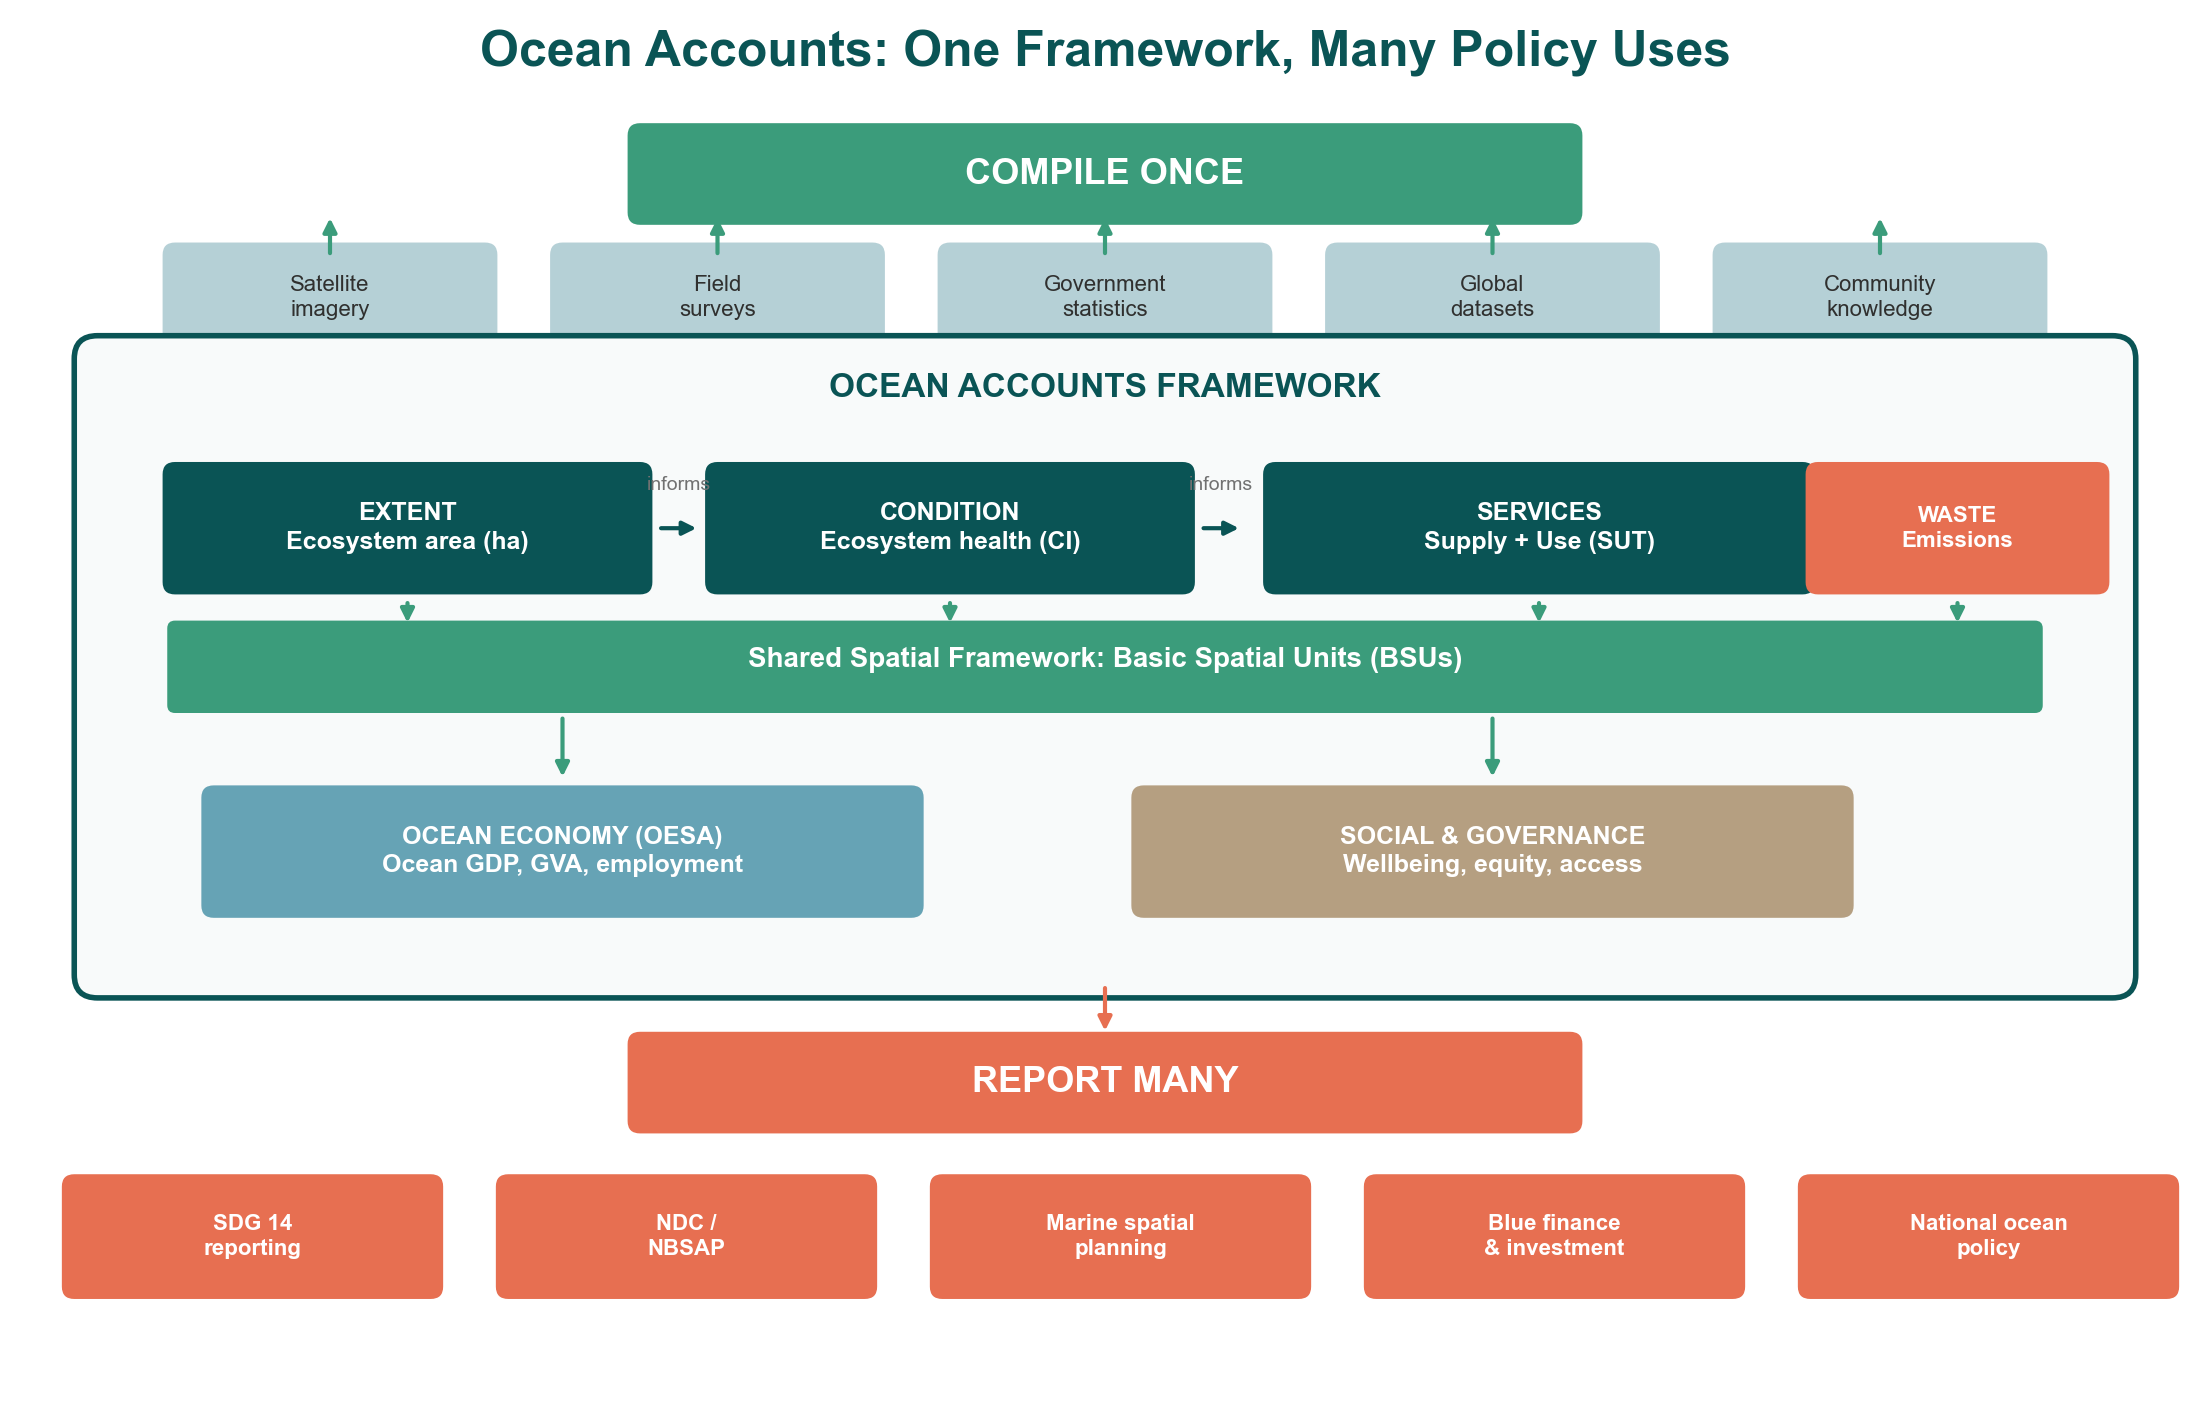
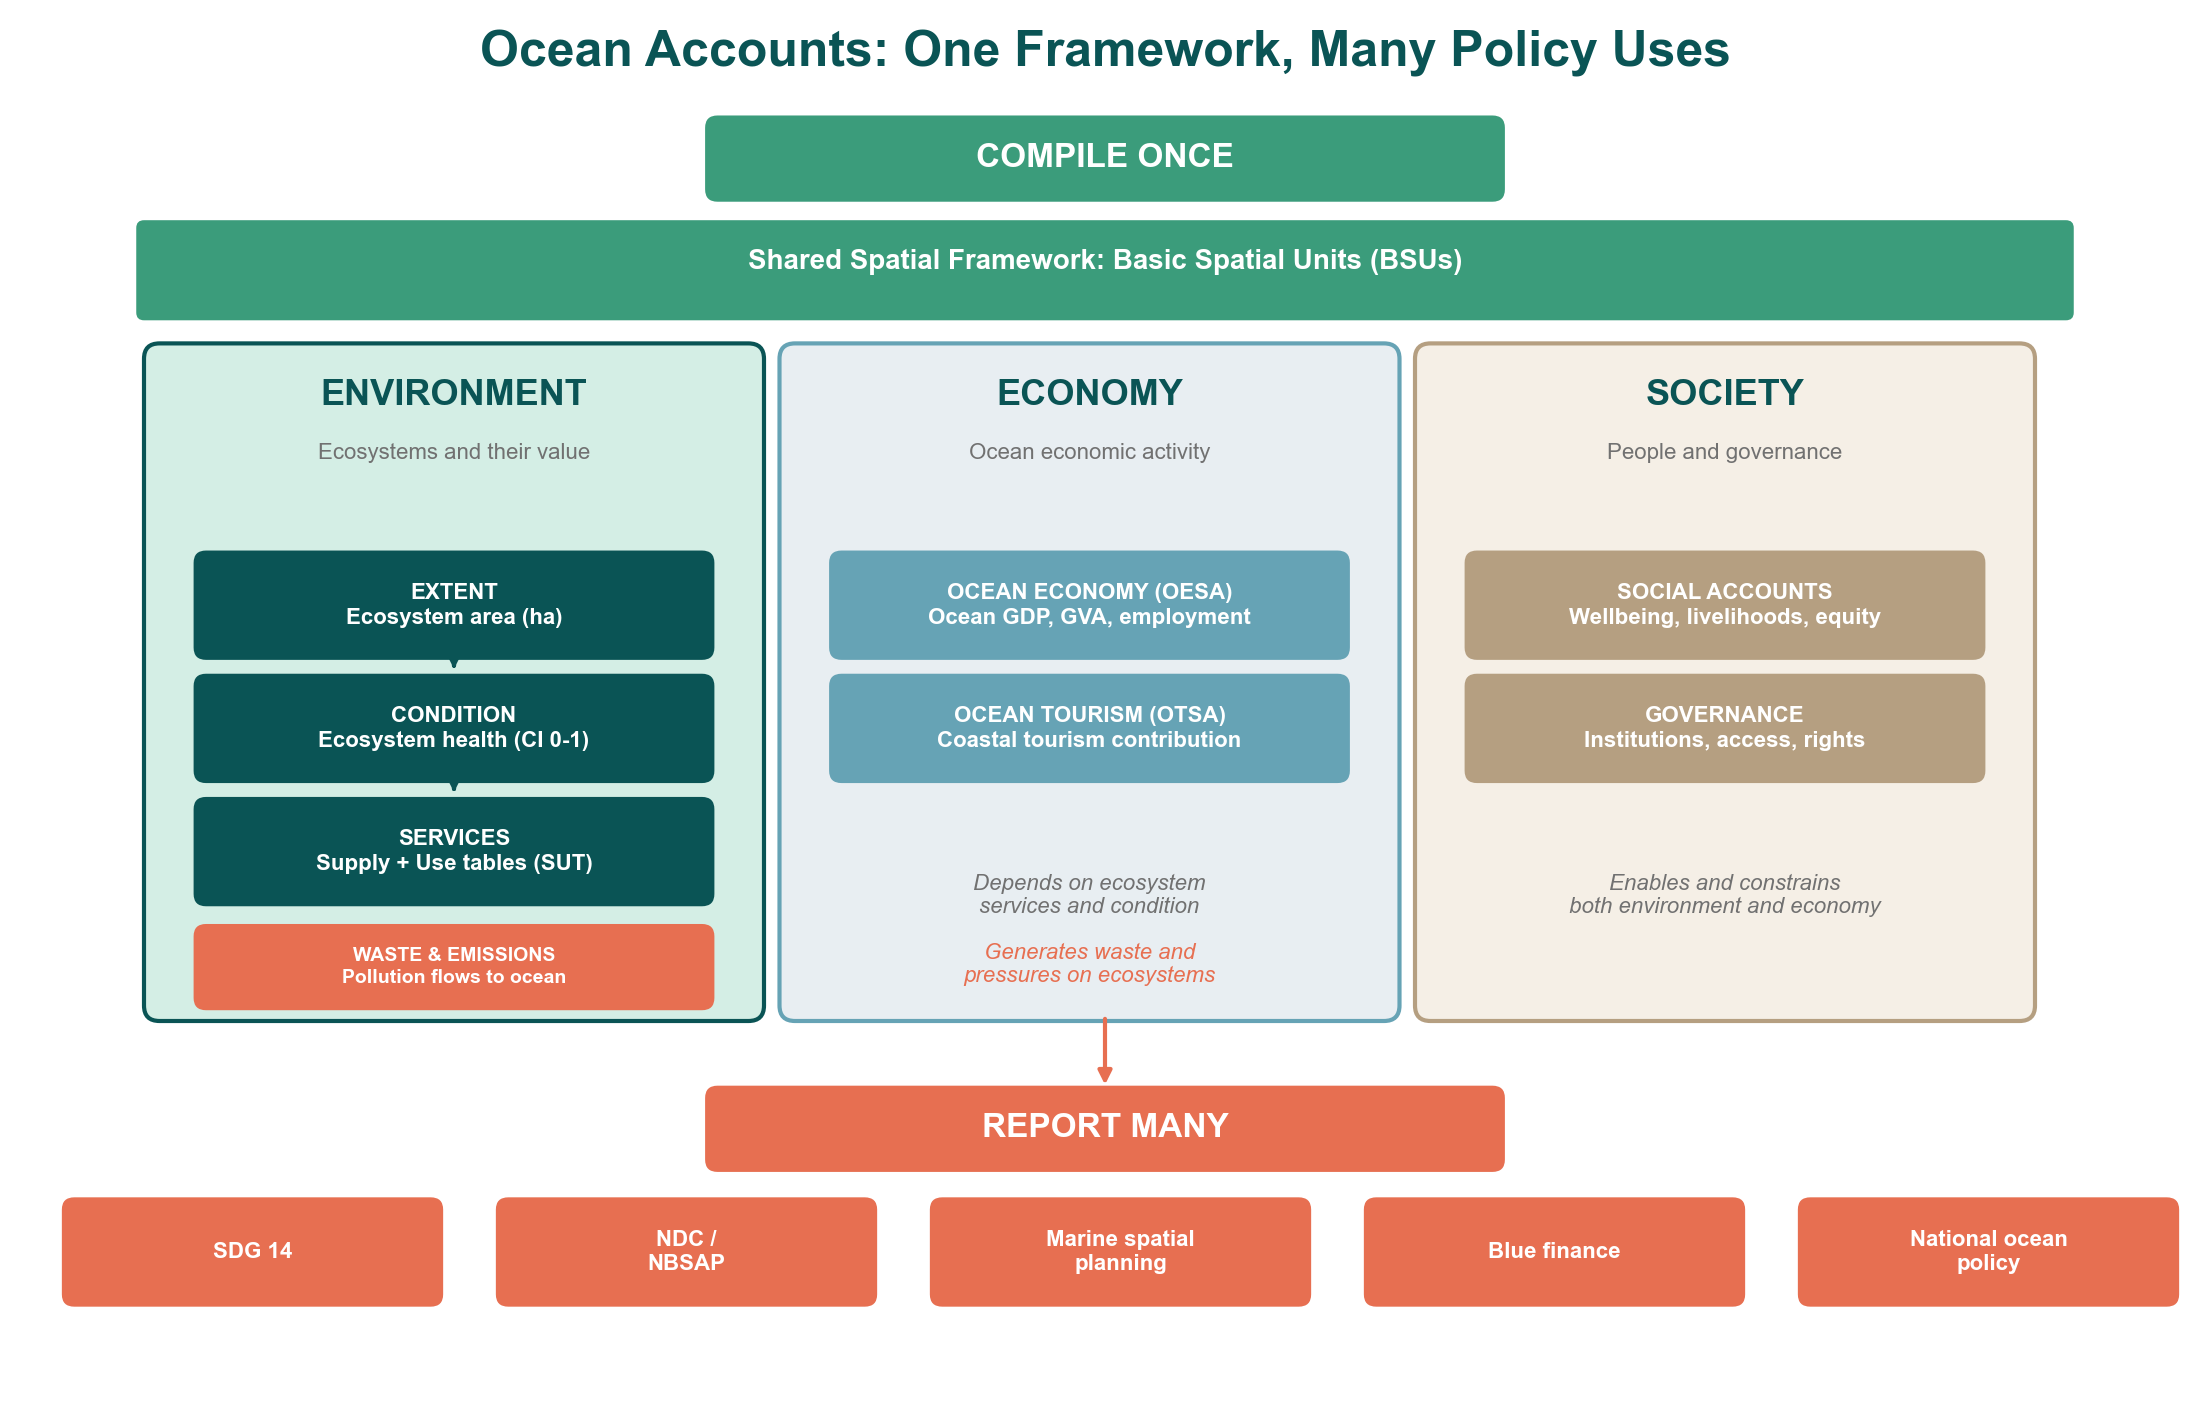
Redesign overview as three equal domains: Environment, Economy, Society
No more hierarchy. Three equal-sized columns side by side:

ENVIRONMENT: Extent → Condition → Services + Waste & Emissions
ECONOMY: OESA (Ocean GDP) + OTSA (Tourism)
SOCIETY: Social Accounts + Governance

All sit on shared BSU Spatial Framework.
Relationships described in text within each column (not crossing arrows).
"Compile Once" at top, "Report Many" at bottom with 5 policy outputs.

diff --git a/s-s-event-bogor/sessions/day-2/clinic/generate_clean_diagrams.py b/s-s-event-bogor/sessions/day-2/clinic/generate_clean_diagrams.py
@@ -66,67 +66,89 @@ def diagram_overview(outdir):
     ax.text(7, 8.7, "Ocean Accounts: One Framework, Many Policy Uses",
             fontsize=18, ha="center", color=TEAL, fontfamily="Arial", fontweight="bold")
 
-    # LEVEL 1: COMPILE ONCE + data sources
-    box(ax, 7, 8.0, 6, 0.5, "COMPILE ONCE", GREEN, fontsize=13)
+    # COMPILE ONCE banner
+    box(ax, 7, 8.1, 5, 0.4, "COMPILE ONCE", GREEN, fontsize=12)
 
-    sources = ["Satellite\nimagery", "Field\nsurveys", "Government\nstatistics",
-               "Global\ndatasets", "Community\nknowledge"]
-    for i, s in enumerate(sources):
-        x = 2.0 + i * 2.5
-        box(ax, x, 7.2, 2.0, 0.55, s, LIGHT_BLUE, textcolor=BODY, fontsize=8, bold=False)
-        arrow_down(ax, x, 7.45, 7.75, GREEN)
-
-    # LEVEL 2: THE FRAMEWORK (one big container)
-    # Outer container
-    container = FancyBboxPatch((0.5, 2.8), 13, 4.0,
-                               boxstyle="round,pad=0.15", facecolor="#F8FAFA",
-                               edgecolor=TEAL, linewidth=2)
-    ax.add_patch(container)
-    ax.text(7, 6.55, "OCEAN ACCOUNTS FRAMEWORK", fontsize=12, ha="center",
-            color=TEAL, fontfamily="Arial", fontweight="bold")
-
-    # BSU band in the middle of the container
-    bsu = FancyBboxPatch((1.0, 4.55), 12, 0.5,
-                         boxstyle="round,pad=0.05", facecolor=GREEN,
-                         edgecolor="none")
+    # BSU FOUNDATION (wide bar under compile once)
+    bsu = FancyBboxPatch((0.8, 7.1), 12.4, 0.55,
+                         boxstyle="round,pad=0.05", facecolor=GREEN, edgecolor="none")
     ax.add_patch(bsu)
-    ax.text(7, 4.8, "Shared Spatial Framework: Basic Spatial Units (BSUs)",
+    ax.text(7, 7.38, "Shared Spatial Framework: Basic Spatial Units (BSUs)",
             fontsize=10, ha="center", color=WHITE, fontfamily="Arial", fontweight="bold")
 
-    # Top row: SEEA-EA ecological accounts (above BSU)
-    box(ax, 2.5, 5.7, 3.0, 0.7, "EXTENT\nEcosystem area (ha)", TEAL, fontsize=9)
-    box(ax, 6.0, 5.7, 3.0, 0.7, "CONDITION\nEcosystem health (CI)", TEAL, fontsize=9)
-    box(ax, 9.8, 5.7, 3.4, 0.7, "SERVICES\nSupply + Use (SUT)", TEAL, fontsize=9)
-    box(ax, 12.5, 5.7, 1.8, 0.7, "WASTE\nEmissions", ORANGE, fontsize=8)
+    # THREE EQUAL DOMAIN COLUMNS
+    col_w = 3.8
+    col_h = 4.2
+    col_y = 2.6
+    gap = 0.3
 
-    # Arrows: extent → condition → services
-    arrow_right(ax, 4.1, 4.4, 5.7, TEAL)
-    arrow_right(ax, 7.6, 7.9, 5.7, TEAL)
-    ax.text(4.25, 5.95, "informs", fontsize=7, color=GRAY, ha="center", fontfamily="Arial")
-    ax.text(7.75, 5.95, "informs", fontsize=7, color=GRAY, ha="center", fontfamily="Arial")
+    # Column 1: ENVIRONMENT (teal)
+    c1_x = 0.9
+    env = FancyBboxPatch((c1_x, col_y), col_w, col_h,
+                         boxstyle="round,pad=0.1", facecolor=MINT,
+                         edgecolor=TEAL, linewidth=1.5)
+    ax.add_patch(env)
+    ax.text(c1_x + col_w/2, col_y + col_h - 0.3, "ENVIRONMENT",
+            fontsize=13, ha="center", color=TEAL, fontfamily="Arial", fontweight="bold")
+    ax.text(c1_x + col_w/2, col_y + col_h - 0.65, "Ecosystems and their value",
+            fontsize=8, ha="center", color=GRAY, fontfamily="Arial")
 
-    # Bottom row: Economy + Society (below BSU)
-    box(ax, 3.5, 3.6, 4.5, 0.7, "OCEAN ECONOMY (OESA)\nOcean GDP, GVA, employment", BLUE_GRAY, fontsize=9)
-    box(ax, 9.5, 3.6, 4.5, 0.7, "SOCIAL & GOVERNANCE\nWellbeing, equity, access", TAN, fontsize=9)
+    # SEEA-EA components inside environment column
+    box(ax, c1_x + col_w/2, col_y + 2.6, 3.2, 0.55, "EXTENT\nEcosystem area (ha)", TEAL, fontsize=8)
+    box(ax, c1_x + col_w/2, col_y + 1.8, 3.2, 0.55, "CONDITION\nEcosystem health (CI 0-1)", TEAL, fontsize=8)
+    box(ax, c1_x + col_w/2, col_y + 1.0, 3.2, 0.55, "SERVICES\nSupply + Use tables (SUT)", TEAL, fontsize=8)
+    box(ax, c1_x + col_w/2, col_y + 0.25, 3.2, 0.4, "WASTE & EMISSIONS\nPollution flows to ocean", ORANGE, fontsize=7)
 
-    # Simple vertical connectors from BSU to rows (no crossing)
-    for x in [2.5, 6.0, 9.8, 12.5]:
-        arrow_down(ax, x, 5.25, 5.05, GREEN)
-    for x in [3.5, 9.5]:
-        arrow_down(ax, x, 4.5, 4.05, GREEN)
+    # Arrows within environment column (vertical chain)
+    arrow_down(ax, c1_x + col_w/2, col_y + 2.25, col_y + 2.15, TEAL)
+    arrow_down(ax, c1_x + col_w/2, col_y + 1.45, col_y + 1.35, TEAL)
 
-    # LEVEL 3: REPORT MANY
-    box(ax, 7, 2.1, 6, 0.5, "REPORT MANY", ORANGE, fontsize=13)
+    # Column 2: ECONOMY (blue-gray)
+    c2_x = c1_x + col_w + gap
+    eco = FancyBboxPatch((c2_x, col_y), col_w, col_h,
+                         boxstyle="round,pad=0.1", facecolor="#E8EEF2",
+                         edgecolor=BLUE_GRAY, linewidth=1.5)
+    ax.add_patch(eco)
+    ax.text(c2_x + col_w/2, col_y + col_h - 0.3, "ECONOMY",
+            fontsize=13, ha="center", color=TEAL, fontfamily="Arial", fontweight="bold")
+    ax.text(c2_x + col_w/2, col_y + col_h - 0.65, "Ocean economic activity",
+            fontsize=8, ha="center", color=GRAY, fontfamily="Arial")
 
-    # Arrow from framework to report many
-    arrow_down(ax, 7, 2.75, 2.4, ORANGE)
+    box(ax, c2_x + col_w/2, col_y + 2.6, 3.2, 0.55, "OCEAN ECONOMY (OESA)\nOcean GDP, GVA, employment", BLUE_GRAY, fontsize=8)
+    box(ax, c2_x + col_w/2, col_y + 1.8, 3.2, 0.55, "OCEAN TOURISM (OTSA)\nCoastal tourism contribution", BLUE_GRAY, fontsize=8)
 
-    # LEVEL 4: Policy boxes
-    policies = ["SDG 14\nreporting", "NDC /\nNBSAP", "Marine spatial\nplanning",
-                "Blue finance\n& investment", "National ocean\npolicy"]
+    ax.text(c2_x + col_w/2, col_y + 0.6, "Depends on ecosystem\nservices and condition",
+            fontsize=8, ha="center", color=GRAY, fontfamily="Arial", style="italic")
+    ax.text(c2_x + col_w/2, col_y + 0.15, "Generates waste and\npressures on ecosystems",
+            fontsize=8, ha="center", color=ORANGE, fontfamily="Arial", style="italic")
+
+    # Column 3: SOCIETY (tan)
+    c3_x = c2_x + col_w + gap
+    soc = FancyBboxPatch((c3_x, col_y), col_w, col_h,
+                         boxstyle="round,pad=0.1", facecolor=LIGHT_TAN,
+                         edgecolor=TAN, linewidth=1.5)
+    ax.add_patch(soc)
+    ax.text(c3_x + col_w/2, col_y + col_h - 0.3, "SOCIETY",
+            fontsize=13, ha="center", color=TEAL, fontfamily="Arial", fontweight="bold")
+    ax.text(c3_x + col_w/2, col_y + col_h - 0.65, "People and governance",
+            fontsize=8, ha="center", color=GRAY, fontfamily="Arial")
+
+    box(ax, c3_x + col_w/2, col_y + 2.6, 3.2, 0.55, "SOCIAL ACCOUNTS\nWellbeing, livelihoods, equity", TAN, fontsize=8)
+    box(ax, c3_x + col_w/2, col_y + 1.8, 3.2, 0.55, "GOVERNANCE\nInstitutions, access, rights", TAN, fontsize=8)
+
+    ax.text(c3_x + col_w/2, col_y + 0.6, "Enables and constrains\nboth environment and economy",
+            fontsize=8, ha="center", color=GRAY, fontfamily="Arial", style="italic")
+
+    # REPORT MANY banner
+    box(ax, 7, 1.8, 5, 0.4, "REPORT MANY", ORANGE, fontsize=12)
+    arrow_down(ax, 7, 2.55, 2.05, ORANGE)
+
+    # Policy boxes
+    policies = ["SDG 14", "NDC /\nNBSAP", "Marine spatial\nplanning",
+                "Blue finance", "National ocean\npolicy"]
     for i, p in enumerate(policies):
         x = 1.5 + i * 2.8
-        box(ax, x, 1.1, 2.3, 0.65, p, ORANGE, fontsize=8)
+        box(ax, x, 1.0, 2.3, 0.55, p, ORANGE, fontsize=8)
 
     save(fig, outdir / "diagram_overview.png")
 
